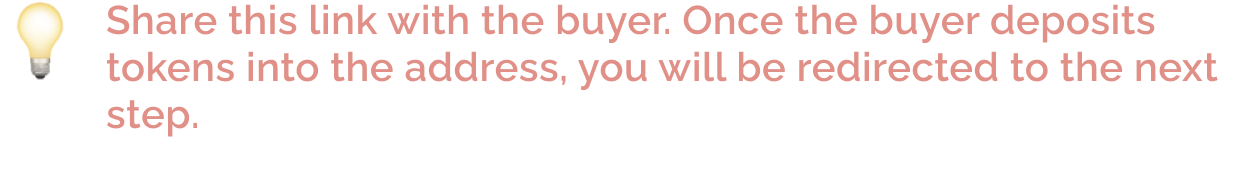
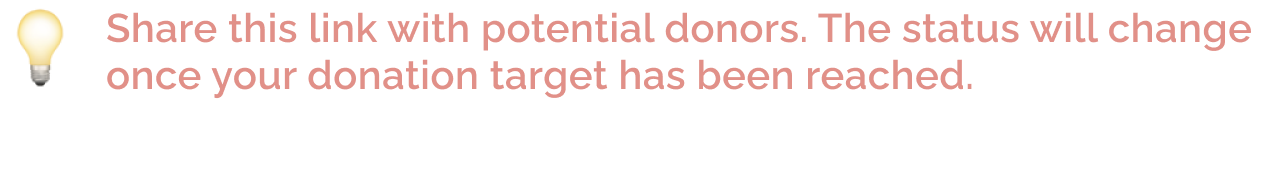
do the campaign makeover

Changed region(s): [[0.0, 0.0, 1.0, 0.4974], [0.0612, 0.5236, 0.1531, 0.7068]]

diff --git a/src/Pages/CreatePaymentLinkPage/CreatePaymentLinkPage.js b/src/Pages/CreatePaymentLinkPage/CreatePaymentLinkPage.js
@@ -6,88 +6,90 @@ const CreatePaymentLinkPage = () => {
   const handleClick = () => {}
   return (
     <div className='ml-20 pt-10'>
-      <h1 class='text-7xl font-bold float-left mb-8 '>Create Payment Link</h1>
+      <h1 class='text-7xl font-bold float-left mb-8 '>
+        Create Campaign Payment Link
+      </h1>
       <div className='ml-4'>
         <div
           style={{ width: "75rem", height: "45rem" }}
-          className='backgroundCard  grid grid-cols-2 gap-4 rounded-lg'
+          className='backgroundCard grid grid-cols-2 gap-4 rounded-lg'
         >
           <div className='m-3'>
             <label
               for='text'
-              className='text-md font-medium text-white float-left'
+              className='text-xl font-medium mb-3 text-white float-left'
             >
-              Your email
+              Name Of Campaign
             </label>
             <input
               type='text'
-              className='bg-cust_tertiary text-white md:text-md h-3/6 rounded-lg w-full p-2.5 focus:outline-none'
+              className='bg-cust_tertiary text-xl font-medium mb-3 text-white md:text-md h-3/6 rounded-lg w-full p-2.5 focus:outline-none'
             />
           </div>
           <div className='m-3'>
             <label
               for='text'
-              className='text-md font-medium text-white float-left'
+              className='text-md text-xl font-medium mb-3 text-white float-left'
             >
-              Your password
+              Campaign donation target in Ether
             </label>
             <input
               type='text'
-              className='bg-cust_tertiary text-white md:text-md h-3/6 rounded-lg w-full p-2.5 focus:outline-none'
+              className='bg-cust_tertiary text-xl font-medium mb-3 text-white md:text-md h-3/6 rounded-lg w-full p-2.5 focus:outline-none'
             />
           </div>
           <div className='col-span-2 m-3'>
             <label
               for='text'
-              className='text-md font-medium text-white float-left'
+              className='text-md font-medium text-xl font-medium mb-3 text-white float-left'
             >
-              Description
+              Key Deliverables
             </label>
             <textarea
               type='text'
-              className='h-4/6 bg-cust_tertiary text-white md:text-md h-3/6 rounded-lg w-full p-2.5 focus:outline-none'
+              className='h-4/6 bg-cust_tertiary text-xl font-medium mb-3 text-white md:text-md h-3/6 rounded-lg w-full p-2.5 focus:outline-none'
             />
           </div>
           <div className='m-3'>
             <label
               for='text'
-              className='text-md font-medium text-white float-left'
+              className='text-md font-medium text-xl font-medium mb-3 text-white float-left'
             >
               Deposit Address
             </label>
             <input
               type='text'
-              className='bg-cust_tertiary text-white md:text-md h-3/6 rounded-lg w-full p-2.5 focus:outline-none'
+              className='bg-cust_tertiary text-xl font-medium mb-3 text-white md:text-md h-3/6 rounded-lg w-full p-2.5 focus:outline-none'
             />
           </div>
           <div className='m-3'>
             <label
               for='text'
-              className='text-md font-medium text-white float-left'
+              className='text-md font-medium text-xl font-medium mb-3 text-white float-left'
             >
-              Conditions
+              Charitable causes
             </label>
             <input
               type='text'
-              className='bg-cust_tertiary text-white md:text-md h-3/6 rounded-lg w-full p-2.5 focus:outline-none'
+              className='bg-cust_tertiary text-xl font-medium mb-3 text-white md:text-md h-3/6 rounded-lg w-full p-2.5 focus:outline-none'
             />
           </div>
           <div className='col-span-2 m-3'>
             <label
               for='text'
-              className='text-md font-medium text-white float-left'
+              className='text-md font-medium text-xl font-medium mb-3 text-white float-left'
             >
               Secret
             </label>
             <input
               type='text'
-              className='bg-cust_tertiary text-white md:text-md h-3/6 rounded-lg w-full p-2.5 focus:outline-none'
+              className='bg-cust_tertiary text-xl font-medium mb-3 text-white md:text-md h-3/6 rounded-lg w-full p-2.5 focus:outline-none'
             />
           </div>
-          <div className='justify-start'>
+          <div className=' justify-start'>
             <button
               onClick={handleClick}
-              className='text-center bg-cust_orange 
+              className='text-center  bg-cust_orange 
  text-2xl text-white font-bold ml-3 p-3 w-144 h-15 rounded-xl'
             >
               Create payment link

diff --git a/src/Pages/ProductInformationPage/ProductInformationPage.js b/src/Pages/ProductInformationPage/ProductInformationPage.js
@@ -2,45 +2,55 @@ import React, { useState } from "react"
 import qrCode from "../../assets/images/qr-code.png"
 
 const ProductInformationPage = () => {
-  const [name, setName] = useState("Lorem Ipsum")
-  const [price, setPrice] = useState(0.001)
-  const [description, setDescription] = useState("Lorem Ipsum")
-  const [paymentAddress, setPaymentAddress] = useState("Lorem Ipsum")
-  const [conditions, setConditions] = useState("Lorem Ipsum")
+  const [name, setName] = useState("GreenEverywhere")
+  const [price, setPrice] = useState(1.2)
+  const [description, setDescription] =
+    useState(`Planted 1000 trees in Haryana, India (evidence)
+  Employed 20 gardeners to take care of rare flowers in Assam, India
+  Held an event to educate farmers about new agricultural policies`)
+  const [paymentAddress, setPaymentAddress] = useState(
+    "0x1020123418421028410841082412028412841"
+  )
+  const [conditions, setConditions] = useState("Afforestation, Restoration ")
 
   return (
     <div className='ml-20 pt-10'>
       <div className='grid grid-row-2  grid-flow-row ml-5'>
         <div>
           <h1 class='text-7xl font-bold float-left mb-8 '>
-            Prouct Information
+            Campaign Information
           </h1>
         </div>
         <div class='flex'>
           <div className='backgroundCard justify-start rounded-2xl'>
             <div>
               <div className='pt-12 pl-10'>
-                <div className='text-4xl text-left  text-white'>Name:</div>
+                <div className='text-4xl text-left font-bold  text-white'>
+                  Name Of Campaign:
+                </div>
                 <div className='text-xl mt-4 text-left  text-cust_orange'>
                   {name}
                 </div>
               </div>
               <div className='pt-12 pl-10'>
-                <div className='text-4xl text-left  text-white'>
-                  Description:
+                <div className='text-4xl text-left font-bold text-white'>
+                  Key Deliverables:
                 </div>
                 <div className='text-xl mt-4 text-left  text-cust_orange'>
                   {description}
                 </div>
               </div>
               <div className='pt-12 pl-10'>
-                <div className='text-4xl text-left  text-white'>Price:</div>
+                <div className='text-4xl text-left font-bold text-white'>
+                  {" "}
+                  Campaign Donation target in Ether:
+                </div>
                 <div className='text-xl mt-4 text-left  text-cust_orange'>
                   {price} eth
                 </div>
               </div>
               <div className='pt-12 pl-10'>
-                <div className='text-4xl text-left  text-white'>
+                <div className='text-4xl text-left font-bold  text-white'>
                   Payment Address:
                 </div>
                 <div className='text-xl mt-4 text-left  text-cust_orange'>
@@ -48,8 +58,8 @@ const ProductInformationPage = () => {
                 </div>
               </div>
               <div className='pt-12 pl-10'>
-                <div className='text-4xl text-left  text-white'>
-                  Conditions:
+                <div className='text-4xl text-left font-bold text-white'>
+                  Charitable causes:
                 </div>
                 <div className='text-xl mt-4 text-left  text-cust_orange'>
                   {conditions}
@@ -59,10 +69,21 @@ const ProductInformationPage = () => {
           </div>
           <div className='ml-5 w-96 h-96 mt-20 '>
             <img className='m-auto' src={qrCode} />
+
             <div className='pt-5'>
+              <div className='flex'>
+                <div style={{ width: "9rem" }} className='mr-3'>
+                  Enter amount in ether
+                </div>
+                <input
+                  style={{ width: "10rem" }}
+                  type='number'
+                  className='bg-cust_tertiary text-xl font-medium mb-3 text-white md:text-md h-3/6 rounded-lg p-2.5 focus:outline-none'
+                />
+              </div>
               <button
                 className='text-center bg-cust_orange 
- text-2xl text-white font-bold ml-3 p-3 w-90 h-15 rounded-xl'
+ text-2xl text-white font-bold ml-3 p-3 w-64 h-15 rounded-xl'
               >
                 Create payment link
               </button>{" "}

diff --git a/src/Pages/Homepage/Homepage.js b/src/Pages/Homepage/Homepage.js
@@ -17,30 +17,36 @@ const Homepage = () => {
             className='text-center bg-cust_tertiary ml-10
            text-2xl text-white font-bold w-60 h-20 rounded-xl'
           >
-            Connect to wallet
+            Connect your wallet
           </button>
         </div>
       </div>
       <div style={{ paddingTop: "8rem" }}>
         <div style={{ marginLeft: "6rem" }} className='h-184 w-184'>
           <img src={logo} className='' alt='logo' />
-
+          <h1 class='text-3xl mt-4 font-bold text-left mb-8 '>
+            Donate to{" "}
+            <span className='font-black'>
+              charitable crowdfunding campaigns
+            </span>{" "}
+            based on their <span className='font-black'> deliverables</span>
+          </h1>
           <div className='flex pt-10 w-full h-20'>
             <button
               className='text-center bg-cust_tertiary ml-10
-              text-2xl text-white font-bold w-60 h-20 rounded-xl'
+              text-2xl text-white font-bold w-96 h-20 rounded-xl'
             >
-              Buyer
+              I am a Donor
             </button>
             <button
               className='text-center bg-cust_tertiary ml-10
-              text-2xl text-white font-bold w-60 h-20 rounded-xl'
+              text-2xl text-white font-bold w-128 h-20 rounded-xl'
             >
-              Seller
+              Create a campaign
             </button>
             <button
               className='text-center bg-cust_tertiary ml-10
-           text-2xl text-white font-bold w-60 h-20 rounded-xl'
+           text-2xl text-white font-bold w-96 h-20 rounded-xl'
             >
               Campaign
             </button>

diff --git a/src/Pages/DonationSuccessful/DonationSuccessful.js b/src/Pages/DonationSuccessful/DonationSuccessful.js
@@ -1,0 +1,46 @@
+import React from "react"
+import donateText from "../../assets/images/donate-successful.png"
+import bubble from "../../assets/images/bubble.png"
+
+const DonationSuccessful = () => {
+  return (
+    <div>
+      {" "}
+      <div className='h-screen w-full'>
+        <div div className='flex w-full justify-end pr-5'>
+          <div className='pt-3'></div>
+          <div className='pt-4  align-right pr-3'></div>
+        </div>
+        <div className='flex  w-full'>
+          <div style={{ paddingTop: "8rem" }}>
+            <div style={{ marginLeft: "6rem" }} className='h-184 w-184'>
+              <h1 class='text-7xl mt-4 w-96 font-bold text-left mb-8 '>
+                Donation Successful
+              </h1>
+              <h1 class='text-3xl mt-4 font-bold text-left mb-8 '>
+                Donate to{" "}
+                <span className='font-black'>
+                  charitable crowdfunding campaigns
+                </span>{" "}
+                based on their <span className='font-black'> deliverables</span>
+              </h1>
+
+              <div className='flex pt-10 w-full h-64'>
+                <img src={donateText} />
+              </div>
+            </div>
+          </div>
+          <div
+            style={{ paddingLeft: "12rem", paddingTop: "12rem" }}
+            className='flex  pt-24'
+          >
+            <img style={{ width: "40rem", height: "35rem" }} src={bubble} />
+          </div>
+        </div>
+      </div>
+      <div></div>
+    </div>
+  )
+}
+
+export default DonationSuccessful

diff --git a/src/Pages/PaymentReceived/PaymentReceived.js b/src/Pages/PaymentReceived/PaymentReceived.js
@@ -11,7 +11,6 @@ import { Widget, addResponseMessage } from "react-chat-widget"
 import "react-chat-widget/lib/styles.css"
 
 const PaymentReceived = () => {
-  const botdocAPIToken = "3067565241b95f886af0ad699a2542d29c172910"
   useEffect(() => {
     addResponseMessage(`
    Welcome to Fintruist!
@@ -38,7 +37,7 @@ Do you have two minutes now?
       <div className='grid grid-row-2  grid-flow-row ml-5'>
         <div>
           <h1 class='text-7xl font-bold float-left mb-8 '>
-            Payment is successful
+            Campaign Payment Link
           </h1>
         </div>
 
@@ -89,7 +88,7 @@ Do you have two minutes now?
                   className='text-center bg-red-600 
         text-3xl text-white font-bold p-3 w-96 h-15 rounded-xl'
                 >
-                  Download Receipt
+                  Delete Payment Link
                 </button>
               </div>
             </div>

diff --git a/src/App.js b/src/App.js
@@ -8,6 +8,7 @@ import LoginPage from "./Pages/LoginPage/LoginPage"
 import PaymentResult from "./Pages/PaymentResult/PaymentResult"
 import ProductInformationPage from "./Pages/ProductInformationPage/ProductInformationPage"
 import PaymentReceived from "./Pages/PaymentReceived/PaymentReceived"
+import DonationSuccessful from "./Pages/DonationSuccessful/DonationSuccessful"
 
 // import { MoralisProvider } from "react-moralis"
 function App() {
@@ -27,6 +28,7 @@ function App() {
             <Route exact path='/received' element={<PaymentReceived />} />
             <Route exact path='/create' element={<CreatePaymentLinkPage />} />
             <Route exact path='/result' element={<PaymentResult />} />
+            <Route exact path='/donate' element={<DonationSuccessful />} />
           </Routes>
         </Router>
       </div>

diff --git a/src/components/SideNav/SideNav.js b/src/components/SideNav/SideNav.js
@@ -39,7 +39,7 @@ const SideNav = () => {
           <div>
             <button
               onClick={() => {
-                navigate("/faq")
+                navigate("/")
               }}
             >
               {location.pathname === "/faq" ? (
@@ -55,7 +55,7 @@ const SideNav = () => {
                 navigate("/dashboard")
               }}
             >
-              {location.pathname === "/" ||
+              {location.pathname === "/create" ||
               location.pathname === "/result" ||
               location.pathname === "/received" ? (
                 <img src={whiteDashboard} />

diff --git a/src/Pages/PaymentResult/PaymentResult.js b/src/Pages/PaymentResult/PaymentResult.js
@@ -15,7 +15,7 @@ const PaymentResult = () => {
       <div className='grid grid-row-2  grid-flow-row ml-5'>
         <div>
           <h1 class='text-7xl font-bold float-left mb-8 '>
-            Payment Link is Created
+            Campaign Payment Link
           </h1>
         </div>
 

diff --git a/src/Pages/ProductInformationPage/product-information.css b/src/Pages/ProductInformationPage/product-information.css
@@ -1,7 +1,7 @@
 .backgroundCard {
   background-color: #6a3a6b;
   width: 1065px;
-  height: 690px;
+  height: 790px;
 }
 .backgroundSubCard {
   height: 150px;
